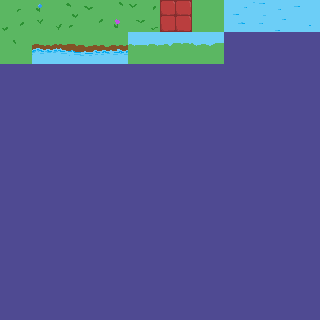
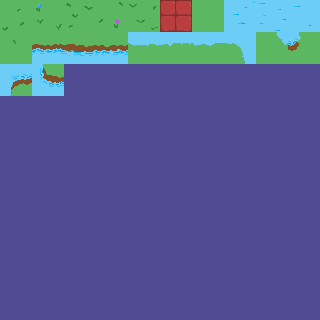
5/12

Changed region(s): [[0.6875, 0.0938, 1.0, 0.2188], [0.0, 0.1875, 0.2188, 0.3125]]

diff --git a/Tiles/StoneSquare.tsx b/Tiles/StoneSquare.tsx
@@ -1,0 +1,4 @@
+<?xml version="1.0" encoding="UTF-8"?>
+<tileset version="1.4" tiledversion="1.4.3" name="StoneSquare" tilewidth="32" tileheight="32" tilecount="1" columns="1">
+ <image source="../OpenWorld/IMAGESOW/StoneSquare.jpg" width="32" height="32"/>
+</tileset>

diff --git a/Tiles/grass.tsx b/Tiles/grass.tsx
@@ -1,0 +1,4 @@
+<?xml version="1.0" encoding="UTF-8"?>
+<tileset version="1.4" tiledversion="1.4.3" name="grass" tilewidth="32" tileheight="32" tilecount="100" columns="10">
+ <image source="../OpenWorld/IMAGESOW/grass.png" width="320" height="320"/>
+</tileset>

diff --git a/main.py b/main.py
@@ -57,5 +57,5 @@ while True:
         if keys[pygame.K_DOWN]:
                 y-=15
 
-    print ('tick={}, fps={}'.format(clock.tick(FPS), clock.get_fps()))
+    #print ('tick={}, fps={}'.format(clock.tick(FPS), clock.get_fps()))
     pygame.display.update()
